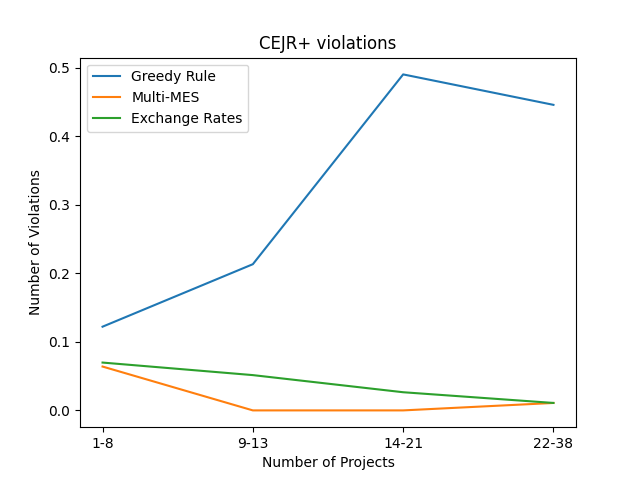
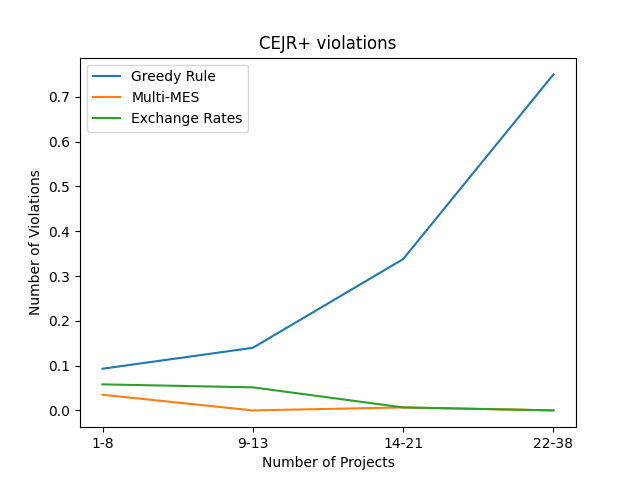
Testing and labelling graphs

diff --git a/environment/experiments.py b/environment/experiments.py
@@ -126,7 +126,7 @@ def cejr_test(instance:Minstance, profile:pbe.ApprovalProfile, rule, up_to_one:b
     return failures
 
 def k_ejr_test(instance:Minstance, profile:pbe.ApprovalProfile, rule, k="All", up_to_one:bool=True) -> float:
-    """Calculate the number of EJR+ violations up to one project or not
+    """Calculate the number of k-EJR+ violations for k=1 or k=r
 
     Args:
         instance (Minstance)
@@ -140,7 +140,8 @@ def k_ejr_test(instance:Minstance, profile:pbe.ApprovalProfile, rule, k="All", u
     """
     # Generate outcome
     outcome = rule(instance.copy(), profile.copy())
-    violations = set()
+    indiv_violations = []
+
     # Find the EJR+ failures for each resource
     for i in range(instance.budget_limit.size):
         # Convert instance, profile and outcome to 1D equivalent (by restricting to one resource)
@@ -151,27 +152,24 @@ def k_ejr_test(instance:Minstance, profile:pbe.ApprovalProfile, rule, k="All", u
         _, failures = strong_ejr_plus_violations(converted_inst, converted_profile, converted_outcome, pbe.Cost_Sat, up_to_one)
 
         # Add violations to the set of all violations
-        if k=="All":
-            violations.update(failures)
-        else:
-            violations.intersection_update(failures)
+        indiv_violations.append(failures.copy())
 
-        del converted_inst
-        del converted_profile
-        del converted_outcome
-        del failures
-        gc.collect()
 
-    # The number of EJR+ violations is the total number which cause a violation in >= one dimension
+    if k == "All":
+        # The number of EJR+ violations is the total number which cause a violation in >= one dimension
+        violations = set.union(*indiv_violations)
+    else:
+        violations = set.intersection(*indiv_violations)
+
     num = len(violations)
-    del violations
+    del indiv_violations
     gc.collect()
     return num
 
 def all_ejr_test(instance:Minstance, profile:pbe.ApprovalProfile, rule):
-    return k_ejr_test(instance,profile,rule, "All",True)
+    return k_ejr_test(instance, profile, rule, "All",True)
 def one_ejr_test(instance:Minstance, profile:pbe.ApprovalProfile, rule):
-    return k_ejr_test(instance,profile, rule, "One",True)
+    return k_ejr_test(instance, profile, rule, k="One",up_to_one=True)
 ## Graphs
 '''
 Graph Building Functions
@@ -411,6 +409,10 @@ def run_test_resources(test_name, max_resource:int, data_location:str, output_fo
     graph_values = {'Greedy Rule': dict([(k, np.mean(g[k])) for k in g.keys()]),
                     'Multi-MES': dict([(k, np.mean(mes[k])) for k in mes.keys()]),}
     test_meta = test_metadata(test_name, 'resources')
+
+    output_file = open('outcomes.txt','a')
+    output_file.write(f"{test_meta[1]}: {graph_values}\n")
+    output_file.close()
 
     graph_builder(graph_values, 'Number of Resources', test_meta[0], test_meta[1], test_meta[2], output_folder)
     if show_graph:

diff --git a/environment/main.py b/environment/main.py
@@ -31,12 +31,12 @@ def batch_run(seed):
     rand.seed(seed)
 
     t1 = time()
-    run_test_projects(one_ejr_test, './environment/datasets_under_30', './environment/plots', True, True)
-    #run_test_projects(all_ejr_test, './environment/datasets_extended', './environment/plots_batch', True, False)
-    #run_test_projects(one_ejr_test, './environment/datasets_extended', './environment/plots_batch', True, False)
-    #run_test_resources(cejr_test, './environment/datasets_extended', './environment/plots_batch', True, False)
-    #run_test_resources(all_ejr_test, './environment/datasets_extended', './environment/plots_batch', True, False)
-    #run_test_resources(one_ejr_test, './environment/datasets_extended', './environment/plots_batch', True, False)
+    run_test_projects(one_ejr_test, './environment/datasets_extended', './environment/plots_batch', True, False)
+    run_test_projects(all_ejr_test, './environment/datasets_extended', './environment/plots_batch', True, False)
+    run_test_projects(cejr_test, './environment/datasets_extended', './environment/plots_batch', True, False)
+    run_test_resources(cejr_test, 10, './environment/datasets_extended', './environment/plots_batch', True, False)
+    run_test_resources(all_ejr_test, 10, './environment/datasets_extended', './environment/plots_batch', True, False)
+    run_test_resources(one_ejr_test,10, './environment/datasets_under_30', './environment/plots_batch', True, False)
     t2 = time()
 
     def to_hours(x):
@@ -46,9 +46,10 @@ def batch_run(seed):
 
     print("Done")
     print(f"Time taken: {to_hours(t2-t1)}")
+    print(f"Seed: {seed}")
     print(f"See plots in ./environment/plots_batch")
 
 if __name__ == "__main__":
-    seed = 0
+    seed = rand.randrange(0,1000)
 
     batch_run(seed)

diff --git a/environment/analysis.py b/environment/analysis.py
@@ -114,7 +114,7 @@ def strong_ejr_plus_violations(instance, profile, outcome, sat_class, up_to_one)
             violation = strong_ejr_plus_violation(proj_utils, vot_utils, outcome, c, threshold, up_to_one)
             if violation:
                 failures += 1
-                failures_set.add(c)
+                failures_set.add(c.name)
     return failures, failures_set
 
 # Other functions
